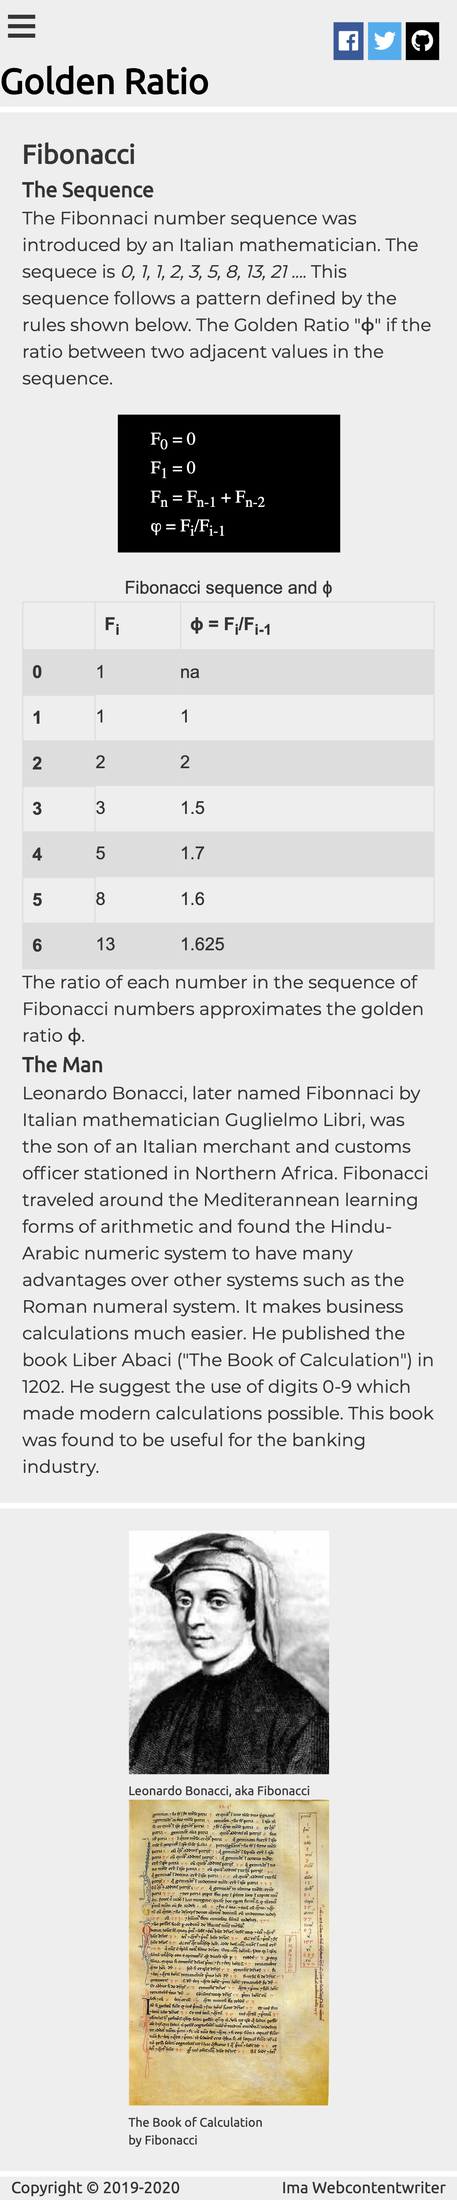
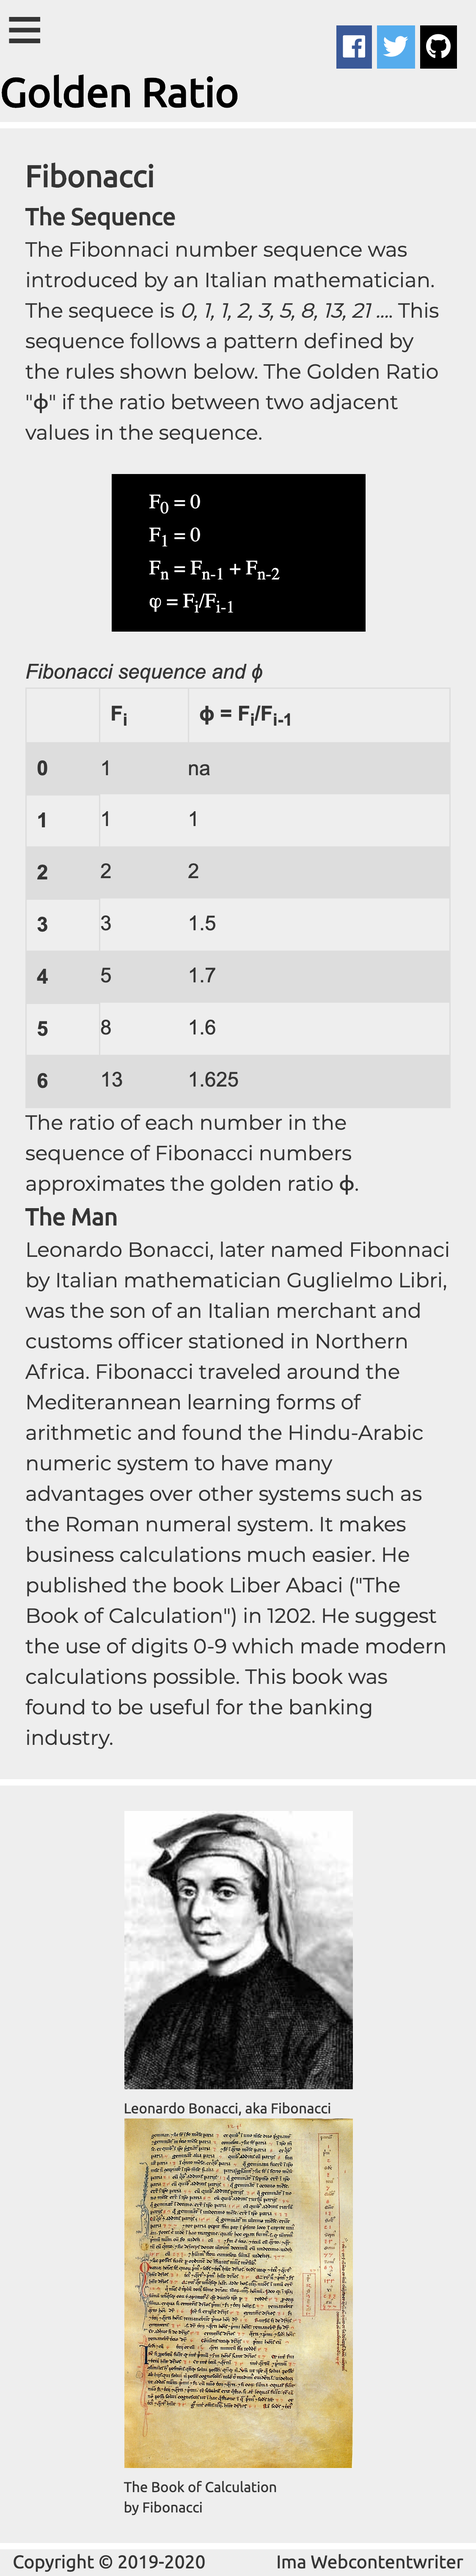
add some style; modify audio

diff --git a/media.html b/media.html
@@ -31,40 +31,40 @@
     <section class="main-section" role="main">
         <h2>Media</h2>
         <!-- TODO wrap audio in div with audio-container class -->
-       
-            <h3>Podcast from <a href=" https://podtail.com/en/podcast/in-our-time-science/the-fibonacci-sequence/">BBC
-                    In
-                    Our Time: Science</a> on the Fibonacci Sequence</h2>
 
-                <iframe src=" https://podtail.com/en/podcast/in-our-time-science/the-fibonacci-sequence/" width="100%"
-                    height="290" frameborder="0" scrolling="no" title="BBC embedded audio player"></iframe>
+        <h3>Podcast from
+            <a href="https://www.npr.org/templates/story/story.php?storyId=1191723">
+                NPR: 'The Golden Ratio`</a>
+            Book Examines the Mystery of Phi, Pi's Lesser-Known Cousin</h3>
+        <iframe src="https://www.npr.org/player/embed/1191723/1191742" width="100%" height="290" frameborder="0"
+            scrolling="no" title="NPR embedded audio player"></iframe>
 
-       
-        <!-- TODO Wrap each video and it's head element in a separate div with the class `frame-container` -->
-            <h3>Fibonacci and the Golden Mean</h3>
-            <div class="resp-container">
-                <iframe class="resp-iframe" width="560" height="315" src="https://www.youtube.com/embed/GmZlAVRKx8I"
-                    allow="accelerometer; autoplay; encrypted-media; gyroscope; picture-in-picture"
-                    allowfullscreen></iframe>
-
-            </div>
-        <!-- TODO Wrap each video and it's head element in a separate div with the class `frame-container` -->
-
-            <h3>In Nature</h3>
-            <div class="resp-container">
-                <iframe class="resp-iframe" width="560" height="315" src="https://www.youtube.com/embed/kkGeOWYOFoA"
-                    allow="accelerometer; autoplay; encrypted-media; gyroscope; picture-in-picture"
-                    allowfullscreen></iframe>
-            </div>
 
         <!-- TODO Wrap each video and it's head element in a separate div with the class `frame-container` -->
+        <h3>Fibonacci and the Golden Mean</h3>
+        <div class="resp-container">
+            <iframe class="resp-iframe" width="560" height="315" src="https://www.youtube.com/embed/GmZlAVRKx8I"
+                allow="accelerometer; autoplay; encrypted-media; gyroscope; picture-in-picture"
+                allowfullscreen></iframe>
 
-            <h3>The Math</h3>
-            <div class="resp-container">
-                <iframe class="resp-iframe" width="560" height="315" src="https://www.youtube.com/embed/5zosU6XTgSY"
-                    allow="accelerometer; autoplay; encrypted-media; gyroscope; picture-in-picture"
-                    allowfullscreen></iframe>
-            </div>
+        </div>
+        <!-- TODO Wrap each video and it's head element in a separate div with the class `frame-container` -->
+
+        <h3>In Nature</h3>
+        <div class="resp-container">
+            <iframe class="resp-iframe" width="560" height="315" src="https://www.youtube.com/embed/kkGeOWYOFoA"
+                allow="accelerometer; autoplay; encrypted-media; gyroscope; picture-in-picture"
+                allowfullscreen></iframe>
+        </div>
+
+        <!-- TODO Wrap each video and it's head element in a separate div with the class `frame-container` -->
+
+        <h3>The Math</h3>
+        <div class="resp-container">
+            <iframe class="resp-iframe" width="560" height="315" src="https://www.youtube.com/embed/5zosU6XTgSY"
+                allow="accelerometer; autoplay; encrypted-media; gyroscope; picture-in-picture"
+                allowfullscreen></iframe>
+        </div>
     </section>
 
     <footer>

diff --git a/README.md b/README.md
@@ -26,7 +26,8 @@ See the design folder for comps and wireframes.  All interpage navigation takes 
 ![Information Architecture Diagram](design/golden-ratio-info-architecture.png).
 
 ## HTML
-See `TODO`'s for location of HTML changes
+See `TODO`'s for location of HTML changes.  Be sure to remove the `TODO` comments once you've completed the task.
+
 1. Add `<title>` to all 4 pages. 
  - index.html: "Golden Ratio"
  - fibonacci.html: "Golden Ratio: Fibonacci"
@@ -60,7 +61,7 @@ See `TODO`'s for location of HTML changes
   <a class="toggle open" href="#nav">&#9776;</a>
   <h1 class="brand"><a href="./index.html">Golden Ratio</a></h1>
 ```
-6. Add list items with navigation and set current page active.  The example below is setting the Home page (index.html) to active.
+6. Add list items with navigation and set current page active.  The example below is setting the Home page (index.html) to active. Add the `active` class to the list item that matches the active page.
 ```
  <li class="active">
     <a href="#">Home</a>
@@ -479,6 +480,11 @@ icon-bar ul {
 .calc-table tr:nth-child(even) {
   background-color: var(--calc-table-border);
 }
+.calc-table caption {
+  caption-side:top;
+  text-align: left;
+  font-style: italic; 
+}
 ```
 16. Style the math presentation on fibonacci.html.
 ```
@@ -528,7 +534,10 @@ icon-bar ul {
 }
 @media only screen and (min-width: 600px) {
   .audio-container {
-    grid-template-columns: auto auto;
+    grid-template-columns: 1fr 1fr;
+  }
+  .audio-container iframe {
+    margin-top: 20px;
   }
 }
 ```
